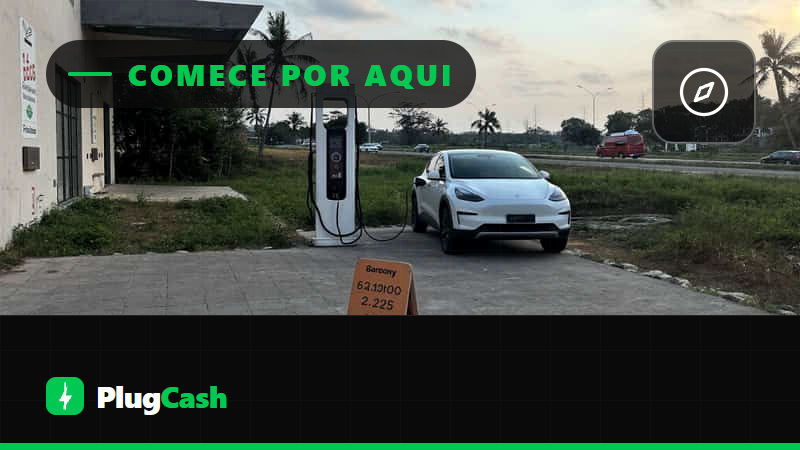
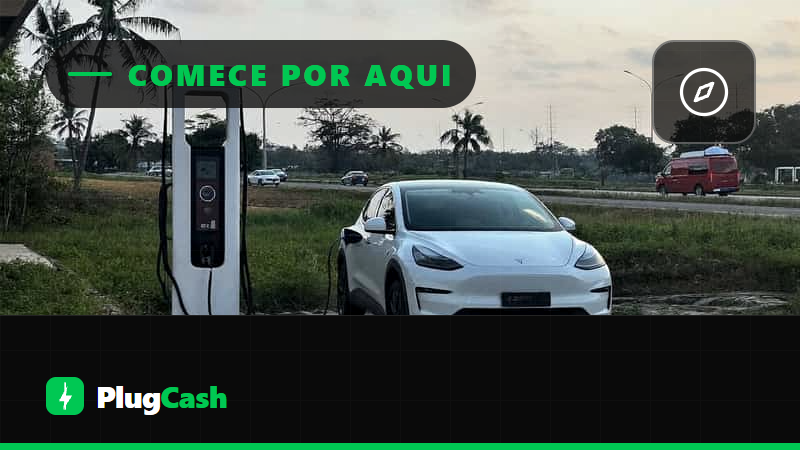
fix(lp): a capa mostrava a placa de texto embaralhado, e o hero estava apagado
Dois defeitos que status code nao pega e olho pega.

A CAPA DO CURSO ainda usava o recorte antigo do hero: dava pra ler "62.10100
2.225" num cartaz laranja. Texto na imagem era a regra numero um justamente
porque IA embaralha portugues — e a capa e a primeira coisa que o comprador ve.
O arquivo de capa e gerado de _capas/, que nao tinha sido refeito depois do
recorte. Apagado e regerado.

O HERO estava apagado: a foto e de fim de tarde e o veu por cima comia ela
quase inteira, virava textura preta em vez de imagem. Opacidade de .26 pra .40
no celular e de .5 pra .62 no desktop, e o veu horizontal alivia mais cedo na
faixa da direita — que e onde nao passa texto por cima.

diff --git a/dashboard/public/io/eletroposto/material/index.html b/dashboard/public/io/eletroposto/material/index.html
@@ -237,7 +237,7 @@ details p{margin:12px 0 0;color:var(--g600);line-height:1.7;max-width:62ch}
    é o padrão e o grande só entra acima de 900px — assim o celular, que é onde a
    página é lida, nunca baixa 1600px pra desenhar 390. */
 .heroSec{position:relative;overflow:hidden}
-.heroFundo{position:absolute;inset:0;z-index:0;opacity:.26;
+.heroFundo{position:absolute;inset:0;z-index:0;opacity:.4;
   background:center 42%/cover no-repeat;
   -webkit-mask-image:linear-gradient(180deg,#000 0%,rgba(0,0,0,.42) 58%,transparent 96%);
           mask-image:linear-gradient(180deg,#000 0%,rgba(0,0,0,.42) 58%,transparent 96%)}
@@ -245,13 +245,13 @@ details p{margin:12px 0 0;color:var(--g600);line-height:1.7;max-width:62ch}
    pequena declarada fora da media query, o desktop baixava as duas. */
 @media(max-width:900px){ .heroFundo{background-image:url('/io/eletroposto/img/fotos/lp-hero-900.webp')} }
 @media(min-width:901px){
-  .heroFundo{background-image:url('/io/eletroposto/img/fotos/lp-hero-1600.webp');opacity:.5}
+  .heroFundo{background-image:url('/io/eletroposto/img/fotos/lp-hero-1600.webp');opacity:.62}
   /* No desktop a foto pode aparecer mais, DESDE QUE não apareça atrás da
      manchete: este véu escurece a coluna da esquerda e libera a direita, onde
      só existe a capa do curso. Sem ele, a máscara vertical deixava a foto mais
      forte exatamente onde o texto começa. */
   .heroSec::after{content:'';position:absolute;inset:0;z-index:0;pointer-events:none;
-    background:linear-gradient(93deg,rgba(10,10,10,.94) 0%,rgba(10,10,10,.86) 34%,rgba(10,10,10,.4) 62%,rgba(10,10,10,.12) 100%)}
+    background:linear-gradient(93deg,rgba(10,10,10,.93) 0%,rgba(10,10,10,.8) 32%,rgba(10,10,10,.28) 60%,rgba(10,10,10,.04) 100%)}
 }
 .heroSec > .faixa{position:relative;z-index:1}
 
